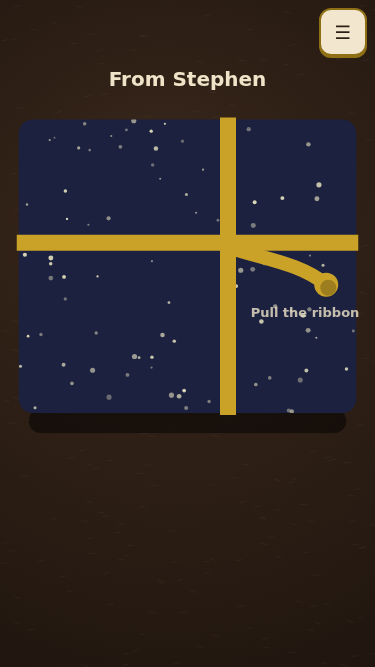
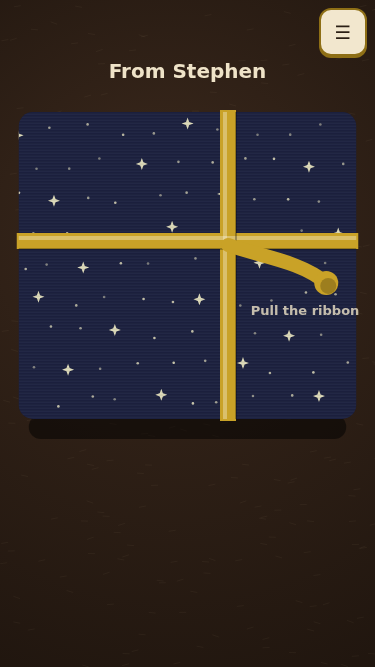
Windup: three printed papers (a lattice repeat, a laid grain, satin on the ribbon), the stall gate counts the window, SESSION STATE
Claude-Session: https://claude.ai/code/session_01CohA1CK6e5eCWUdrKWPpuM

diff --git a/satellites/windup/index.html b/satellites/windup/index.html
@@ -2164,37 +2164,80 @@ function drawWrapped(ctx) {
   roundRect(ctx, b.x, b.y - lift, b.w, b.h + lift, 14);
   ctx.clip();
   var i;
-  if (GIFT.strip.wrap === 'birthday') {
+  /* ⛔ LOOKED AT: random dots over stripes read as noise, and a paper with no
+     grain read as a coloured rectangle. A printed paper has a REPEAT, so each
+     motif sits on a lattice; and every paper gets the laid lines of real
+     wrapping stock under its print. */
+  var wrap = GIFT.strip.wrap, row, colIdx, cell = 34, top = b.y - lift;
+  if (wrap === 'birthday') {
     ctx.strokeStyle = 'rgba(242,231,206,.30)';
     ctx.lineWidth = 9;
     for (i = -20; i < 40; i++) {
       ctx.beginPath();
-      ctx.moveTo(b.x + i * 26, b.y - lift - 10);
+      ctx.moveTo(b.x + i * 26, top - 10);
       ctx.lineTo(b.x + i * 26 + b.h + lift + 20, b.y + b.h + 10);
       ctx.stroke();
     }
   }
-  for (i = 0; i < 90; i++) {
-    var dx = b.x + noiseAt(i, 31, 3) * b.w;
-    var dy = b.y - lift + noiseAt(i, 37, 5) * (b.h + lift);
-    var rr = GIFT.strip.wrap === 'nightsky' ? 1 + noiseAt(i, 41, 7) * 1.6 : 2.5;
-    ctx.fillStyle = art.dots;
-    ctx.globalAlpha = GIFT.strip.wrap === 'nightsky' ? 0.35 + noiseAt(i, 43, 9) * 0.55 : 0.5;
-    if (GIFT.strip.wrap === 'snowfall') {
-      ctx.beginPath();
-      ctx.arc(dx, dy, rr, 0, 6.2832);
-      ctx.fill();
-      ctx.strokeStyle = art.dots;
-      ctx.lineWidth = 1;
-      ctx.beginPath();
-      ctx.moveTo(dx - 4, dy); ctx.lineTo(dx + 4, dy);
-      ctx.moveTo(dx, dy - 4); ctx.lineTo(dx, dy + 4);
-      ctx.stroke();
-    } else {
-      ctx.beginPath();
-      ctx.arc(dx, dy, rr, 0, 6.2832);
-      ctx.fill();
+  for (row = 0; row * cell < b.h + lift + cell; row++) {
+    for (colIdx = 0; colIdx * cell < b.w + cell; colIdx++) {
+      var mx = b.x + colIdx * cell + (row % 2 ? cell / 2 : 0), my = top + row * cell + cell / 2;
+      var k = row * 7 + colIdx;
+      if (wrap === 'snowfall') {
+        /* a six armed flake, the same flake every cell, the way a print is */
+        ctx.strokeStyle = art.dots;
+        ctx.globalAlpha = 0.6;
+        ctx.lineWidth = 1.2;
+        var arm;
+        ctx.beginPath();
+        for (arm = 0; arm < 3; arm++) {
+          var ang = arm * Math.PI / 3, ca = Math.cos(ang) * 6, sa = Math.sin(ang) * 6;
+          ctx.moveTo(mx - ca, my - sa); ctx.lineTo(mx + ca, my + sa);
+        }
+        ctx.stroke();
+        ctx.beginPath(); ctx.arc(mx, my, 1.4, 0, 6.2832); ctx.fillStyle = art.dots; ctx.fill();
+      } else if (wrap === 'nightsky') {
+        /* a star field printed on a lattice: a small star in every cell, a big
+           four point one in every fifth, and a little jitter so it is a sky */
+        var jx = (noiseAt(k, 41, 7) - 0.5) * 14, jy = (noiseAt(k, 43, 9) - 0.5) * 14;
+        ctx.fillStyle = art.dots;
+        if (k % 5 === 0) {
+          ctx.globalAlpha = 0.9;
+          ctx.beginPath();
+          ctx.moveTo(mx + jx, my + jy - 6); ctx.lineTo(mx + jx + 1.6, my + jy - 1.6);
+          ctx.lineTo(mx + jx + 6, my + jy); ctx.lineTo(mx + jx + 1.6, my + jy + 1.6);
+          ctx.lineTo(mx + jx, my + jy + 6); ctx.lineTo(mx + jx - 1.6, my + jy + 1.6);
+          ctx.lineTo(mx + jx - 6, my + jy); ctx.lineTo(mx + jx - 1.6, my + jy - 1.6);
+          ctx.closePath(); ctx.fill();
+        } else {
+          ctx.globalAlpha = 0.45 + noiseAt(k, 47, 11) * 0.4;
+          ctx.beginPath(); ctx.arc(mx + jx, my + jy, 1.3, 0, 6.2832); ctx.fill();
+        }
+      } else {
+        /* confetti: a dot and a tilted dash, alternating along the row */
+        ctx.fillStyle = art.dots;
+        ctx.globalAlpha = 0.55;
+        if (k % 2) {
+          ctx.beginPath(); ctx.arc(mx, my, 2.6, 0, 6.2832); ctx.fill();
+        } else {
+          ctx.save(); ctx.translate(mx, my); ctx.rotate(-0.7);
+          ctx.fillRect(-4, -1.5, 8, 3);
+          ctx.restore();
+        }
+      }
     }
+  }
+  /* the grain: laid lines, faint, every three pixels, over the print */
+  ctx.globalAlpha = 1;
+  ctx.strokeStyle = wrap === 'birthday' ? 'rgba(60,20,10,.07)' : 'rgba(0,0,0,.09)';
+  ctx.lineWidth = 1;
+  var ly;
+  for (ly = top + 1; ly < b.y + b.h; ly += 3) {
+    ctx.beginPath(); ctx.moveTo(b.x, ly); ctx.lineTo(b.x + b.w, ly); ctx.stroke();
+  }
+  ctx.strokeStyle = 'rgba(255,255,255,.05)';
+  for (ly = top + 2; ly < b.y + b.h; ly += 3) {
+    ctx.beginPath(); ctx.moveTo(b.x, ly); ctx.lineTo(b.x + b.w, ly); ctx.stroke();
   }
   ctx.globalAlpha = 1;
   ctx.restore();
@@ -2212,6 +2255,18 @@ function drawWrapped(ctx) {
   ctx.moveTo(b.x + b.w * 0.62, b.y - lift - 2);
   ctx.lineTo(b.x + b.w * 0.62, b.y + b.h + 2);
   ctx.stroke();
+  /* satin: a highlight down the middle of each band and a shadow on its
+     trailing edge, so the ribbon sits ON the paper rather than being printed
+     on it */
+  var ry = b.y + b.h * 0.42 - lift, rx = b.x + b.w * 0.62;
+  ctx.lineWidth = 4;
+  ctx.strokeStyle = 'rgba(255,255,255,.32)';
+  ctx.beginPath(); ctx.moveTo(b.x, ry - 3); ctx.lineTo(b.x + b.w, ry - 3); ctx.stroke();
+  ctx.beginPath(); ctx.moveTo(rx - 3, b.y - lift); ctx.lineTo(rx - 3, b.y + b.h); ctx.stroke();
+  ctx.lineWidth = 2;
+  ctx.strokeStyle = 'rgba(0,0,0,.28)';
+  ctx.beginPath(); ctx.moveTo(b.x, ry + 8); ctx.lineTo(b.x + b.w, ry + 8); ctx.stroke();
+  ctx.beginPath(); ctx.moveTo(rx + 8, b.y - lift); ctx.lineTo(rx + 8, b.y + b.h); ctx.stroke();
   /* the end a thumb pulls */
   /* ⛔ THE END A THUMB PULLS HAS TO BE ON THE SCREEN. Hung off the right of a
      box that is nearly the full width, the ribbon end and the words under it
@@ -2220,6 +2275,9 @@ function drawWrapped(ctx) {
   var ex = Math.min(V.W - 46, b.x + b.w - 30 + slack * 0.5);
   var ey = b.y + b.h * 0.42 - lift + 42 + slack * 0.5;
   GIFT.endAt = { x: ex, y: ey };
+  /* ⛔ LOOKED AT: the loose end inherited the satin shadow's black and hung
+     there as a smear; it is ribbon, so it is the ribbon's colour */
+  ctx.strokeStyle = art.ribbon;
   ctx.lineWidth = 14;
   ctx.lineCap = 'round';
   /* it hangs DOWN off the crossing, clear of the ribbon it came from, or it

diff --git a/plans/windup/HANDOFF-WINDUP.md b/plans/windup/HANDOFF-WINDUP.md
@@ -22,6 +22,36 @@ every difference is in section 3 with its reason.
   section 15 says what is thin and names three Director calls, the first of which
   is Stephen printing one strip and laying it on a real one before the PDF
   leaves beta. ⛔ AND HE HAS NOT HEARD IT: `docs/shots/p0-tine.wav`.
+- 2026-09-06 14:2xZ (a second builder, 25 minutes): **THE AUTO PLAY IS THE
+  SWELL SCHEDULER** (`b7a026b4` and the commit after it). `punchPlayTick` no
+  longer advances the paper by the frame's dt: `autoBegin` fixes a step zero on
+  the audio clock, `autoFill` hands every hole due inside `AUTO_LOOKAHEAD`
+  (100 ms) to `tine()` at its exact time, `autoTimer` tops the queue up every
+  `AUTO_TICK_MS` (25 ms) by setTimeout, and the frame reads the paper's drawn
+  position off `autoStepAt(ctx.currentTime)`. The PLAY button starts and stops
+  the timer; `punchClose` stops it; the strip's end stops it and puts PLAY
+  back on the button. The crank path is untouched and `test/crank.mjs` is
+  green exactly as it was. `test/tine.mjs` grew four assertions that drive the
+  scheduler with the gate's own clock against an OfflineAudioContext through a
+  200 ms hole in the ticks at one second: every note inside the window handed
+  over, every one on the strip's grid within 5 ms, none bunched, and the
+  rendered buffer rising at every grid time. `node test/tine.mjs --legacy`
+  drives the OLD per frame advance through the same stall and goes red on
+  three of the four (one note dropped, 0 of 13 on the grid, worst 313 ms).
+  The three wrapping papers were then looked at (`docs/shots/p2-gift.png`,
+  `p2-gift-night.png`): random dots over stripes read as noise, the ribbon
+  read as tape. Each paper now has a lattice repeat (confetti, a six armed
+  flake, a star field with a big star every fifth cell), a laid grain, and the
+  ribbon a satin highlight and a shadow edge; the second look caught the loose
+  end inheriting the shadow's black and it was fixed. Stamp 20260906d.
+  Gates at the stop: sim 119 green, lint green, crank green, tine (see the
+  line below), the others not rerun by this builder because index.html only
+  changed in the auto play and the wrapping paper.
+  **Next action:** run `node tools/check.js` once under the lock for the full
+  eight; then Stephen presses PLAY in the punch editor on his phone and listens
+  for the swirl to be even, which is the one thing the offline gate cannot
+  hear. If he wants the paper richer, the next step is a second ink per paper
+  (a lighter stripe under the confetti, a moon on the night sky).
 
 ---
 
